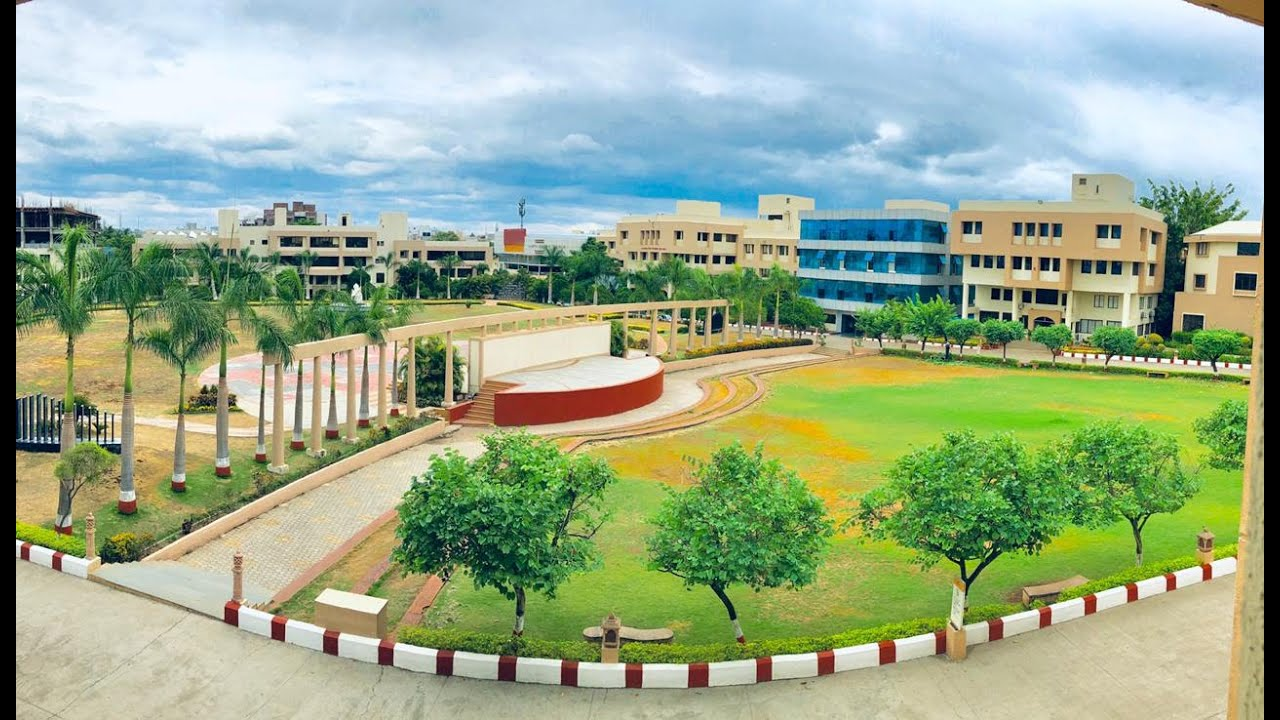
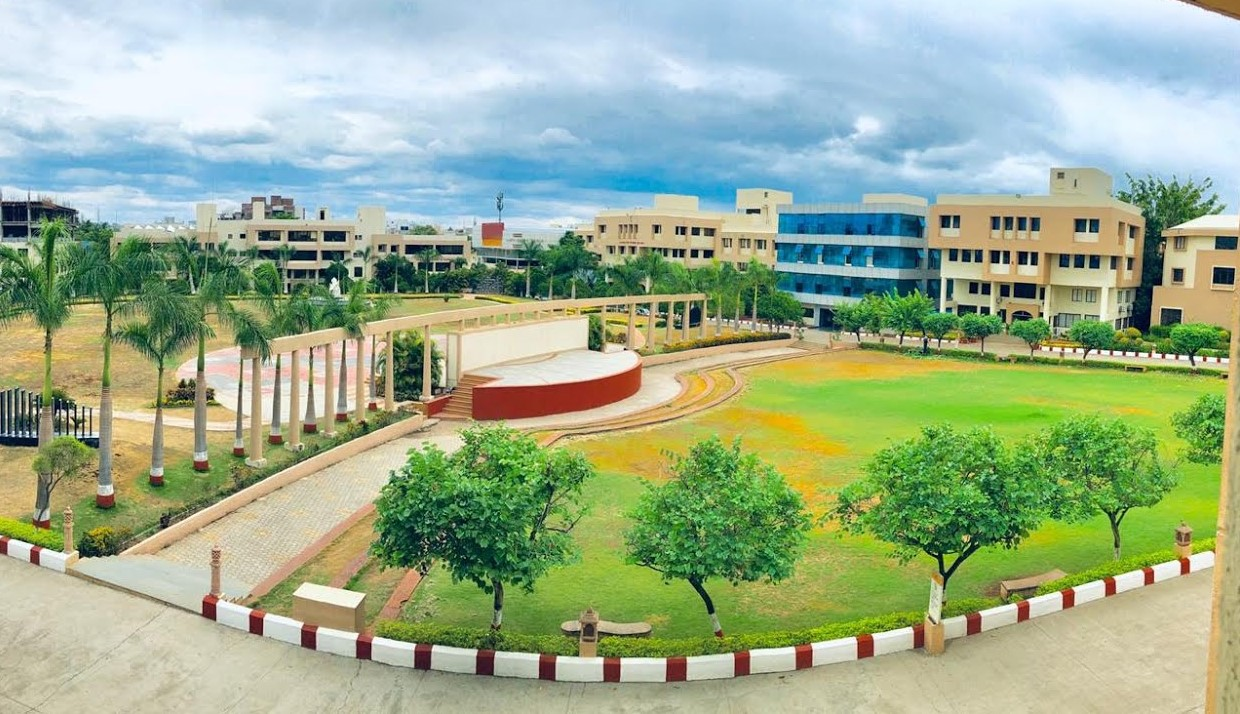
change #322

diff --git a/src/pages/components/Education.css b/src/pages/components/Education.css
@@ -5,6 +5,15 @@
 .educ_container_one img {
   width: 100%;
 }
+.educ_container_one img {
+  height: 418px;
+}
+.educ_div_section {
+  background: white;
+  padding: 40px 20px;
+  gap: 20px;
+  width: 100%;
+}
 .educ_div_section,
 .educ_upper_section,
 .upper_container_section,
@@ -70,8 +79,60 @@
 .educ_btn {
   padding-top: 6px;
 }
+
+@media screen and (min-width: 1024px) {
+  .educ_container_one {
+    width: 50%;
+  }
+}
+
+@media screen and (max-width: 1024px) {
+  .educ_upper_section {
+    flex-direction: column;
+  }
+  .educ_container_one img {
+    height: auto;
+  }
+  .educ_container_two {
+    width: 100%;
+  }
+}
 @media screen and (max-width: 880px) {
   .educ_upper_section {
     flex-direction: column;
+  }
+}
+@media screen and (max-width: 720px) {
+  .educ_lower_section {
+    width: 100%;
+  }
+  .upper_container_section {
+    justify-content: space-between;
+  }
+}
+@media screen and (max-width: 480px) {
+  .upper_left img {
+    display: none;
+  }
+  .upper_container_section {
+    gap: 0px;
+  }
+  .educ_lower_section {
+    width: 100%;
+  }
+  .educ_data_info {
+    width: 100%;
+    text-align: left;
+  }
+  .upper_middle {
+    gap: 3px;
+  }
+  .upper_right {
+    gap: 6px;
+    display: flex;
+    flex-direction: column;
+  }
+  .upper_right h5 {
+    font-size: 13px;
   }
 }

diff --git a/src/pages/components/Education.jsx b/src/pages/components/Education.jsx
@@ -1,6 +1,6 @@
 import React from "react";
 import "./Education.css";
-import educ_img from "../../Image/contact_me_img.png";
+import educ_img from "../../Image/dyp_college_img.jpg";
 import college_logo from "../../Image/college_logo.png";
 function Education() {
   const my_education_data = [

diff --git a/src/pages/EducationCert.jsx b/src/pages/EducationCert.jsx
@@ -6,7 +6,6 @@ const EducationCert = () => {
   return (
     <>
       <div className="educ_cert" id="education-certifications">
-        <h2>Education and Certifications sections</h2>
         <Education />
         <Certificates />
       </div>
